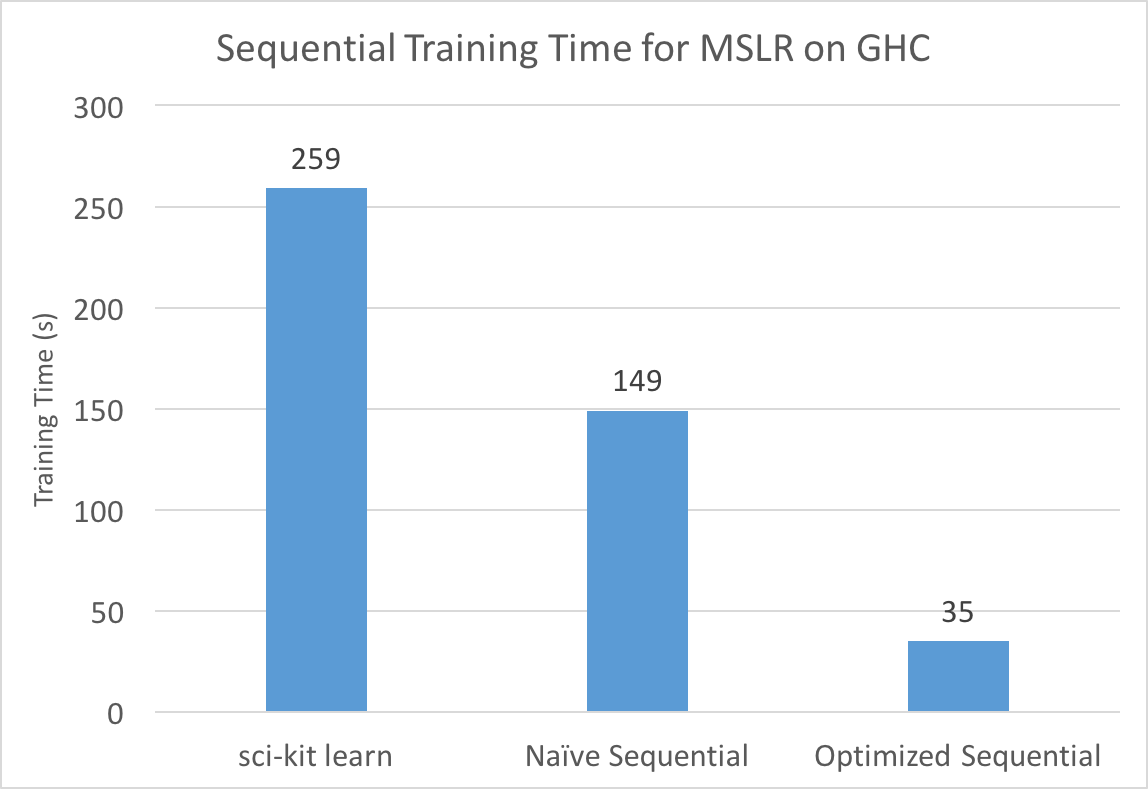
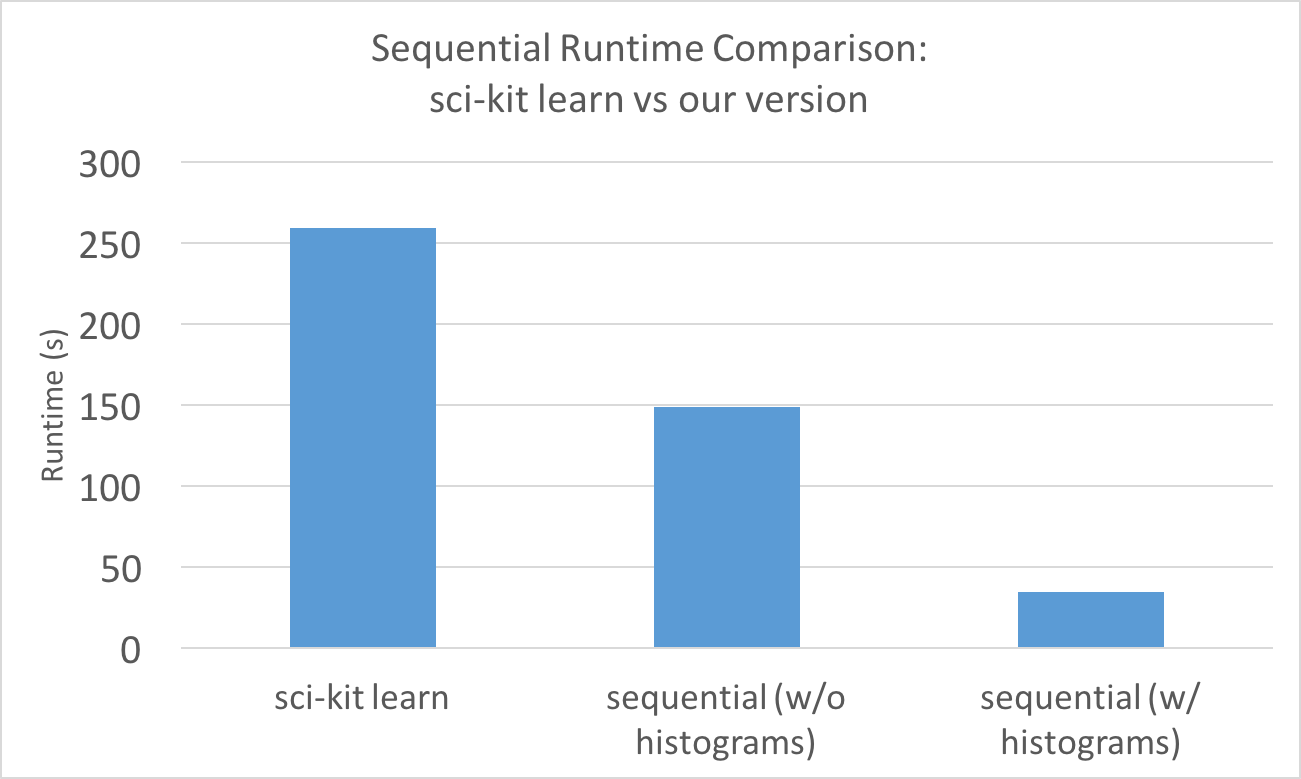
update index.md and graphs

diff --git a/index.md b/index.md
@@ -12,6 +12,7 @@ Rui Peng (ruip@andrew.cmu.edu)
 * [link to checkpoint](checkpoint.html)
 * [link to code](https://github.com/raypeng/DGBDT)
 
+# Final Report
 
 ## Summary
 
@@ -53,7 +54,15 @@ sequential version, with similar accuracy.
   since it is crucial to identify scenarios in which one is preferred over
   the other or if the overhead of using both is worth the trouble.
 
+## Approaches and Results
+
+As we seek to optimize the performance of the algorithm using all the techniques
+we learned in class and leveraging different computing hardware, we describe our
+approaches and results for individual optimizations.
+
 ## Optimizing a Sequential Implementation
+
+### Approach
 
 The standard sequential implementation for decision tree learning looks
 something like this:
@@ -128,6 +137,8 @@ histogram construction algorithm from this
 child histograms by first computing the smaller one, then performing histogram
 subtraction to get the larger one.
 
+### Result
+
 Below are performance comparisons between our implementation of the
 above two algorithms and the popular decision tree learning framework sci-kit learn.
 We benchmarked on the [Microsoft Learn to
@@ -152,6 +163,8 @@ frameworks as long as our accuracy is competitive.
 
 ## Parallelizing with Multiple CPU Cores
 
+### Approach
+
 As mentioned previously parallelizing across tree nodes leads to the problem of
 an imbalanced workload. So we want to instaed parallelize finding a feature
 to split on within a single node. After profiling our code, we determined two
@@ -166,6 +179,7 @@ the distributions of every histogram bin of every feature, this leads to a
 roughly balanced workload. The speedup graphs are shown below (experiments on
 GHC).
 
+### Result
 
 ![OpenMP](assets/runtime-openmp.png)
 
@@ -206,12 +220,20 @@ As you can see from the graph, histogram construction scales well due to the
 trivial communication requirements necessary for it. On the other hand,
 communication during tree building is expensive, since the root
 machine must communicate with all other machines on every node split for every
-feature. We plan to further optimize our distributed training
-code by reducing the amount of information each machine needs to send to
-the root by performing some local computation first to get this to scale beyond
-2 nodes.
+feature. To further reduce the amount of information each machine needs to send to
+the root, we implemented a voting scheme inspired by this
+[NIPS paper](https://arxiv.org/abs/1611.01276) where each local node sends top k histogram
+feature id's to the master and the master performs vote aggregation to determine
+the best feature to split on. This way, we reduce the amount of communication to
+almost constant since only indices are exchanged when determining the best split.
+We can see from the graph below that the performance no longer suffers from
+significant communication overhead in this new version.
+
+![OpenMPI-v2](assets/runtime-openmpi2.png)
 
 ## GPU and Hybrid Implementation
+
+### Approach
 
 Another advantage of our histogram implementation is that the main bottleneck during
 tree construction is computing child histograms, which requires a lot of moving
@@ -239,30 +261,29 @@ merge_results(gpu_result, cpu_result)
 
 Since the speedup graph for CPU suggests that our algorithm may be bandwidth
 bound, an implementation that uses both the memory bandwidth of GPU and CPU will
-likely be faster. Initial results show that hybrid reduces tree building time by 20%
-over GPU only when running on the [HIGGS Data Set](https://archive.ics.uci.edu/ml/datasets/HIGGS),
-which has 11 million samples. Both the GPU only and hybrid only implementation
+likely be faster. We foundhybrid reduces tree building time by 10%
+over GPU only by statically assigning 8 features to threads on CPU and the rest
+on GPU on the [HIGGS Data Set](https://archive.ics.uci.edu/ml/datasets/HIGGS),
+which has 11 million samples. Both the GPU only and hybrid only implemetation
 are improvements over a multi-core CPU implementation with 16 threads.
-likely be faster. We are currently playing around with scheduling strategies (such
-as scheduling based on the size of the node we are woking with).
-Initial results show that hybrid reduces tree building time by 20%
-over GPU only when running on the [HIGGS Data Set](https://archive.ics.uci.edu/ml/datasets/HIGGS),
-which has 11 million samples. Both the GPU only and hybrid only implementations
-are improvements over a multi-core CPU implementation with 16 threads.
-We are working on optimizing this further with a better scheduling strategy.
 
-## Further Work
+We have also experimented with a dynamic work scheduling policies in which we choose
+GPU/CPU hybrid for nodes with more samples and CPU-only for nodes with fewer samples
+(much like choosing between top-down and bottom-up in hybrid BFS in assignment 3).
+This dynamic scheduling tries to minimize data transfer between GPU and CPU in cases
+where the doing work on GPU is not worth the data transfer overhead.
 
-We have two main goals to focus on:
+### Result
 
-1. Improve our GPU implementation and hybrid scheduling. Currently the GPU
-   implementation is pretty simple, which might make hybrid scheduling
-   not as effective as it could be. We would
-   like to look into further improving the GPU implementation to show the
-   advantages of hybrid scheduling. Specifically, we are planning to reduce
-   the memory movement between host and device that occurs when training.
-2. Improve the communication efficiency of our distributed implementation. We
-   found a [paper](https://arxiv.org/abs/1611.01276) recently published at
-   NIPS that will help us in this regard.
-   We hope that implementing their idea will allow us to scale beyond two
-   machines.
+With this scheme, the dynamic hybrid version out performs GPU-only and CPU-only version
+by a noticable margin. We find the initial cuda memory setup time takes up 25% of total
+tree construction time which makes the drags GPU-only total runtime down to the same as CPU-only. This indicates
+that to find a good hybrid scheduling strategy, we need to carefully profile the code
+and placing the work optimally on GPU and CPU depending on specific workload conditions.
+If we had more time for the project, we would perform a more comprehensive profiling and
+devise an optimal dynamic scheduling policy.
+
+![scheduling](assets/runtime-scheduling.png)
+
+## References
+
